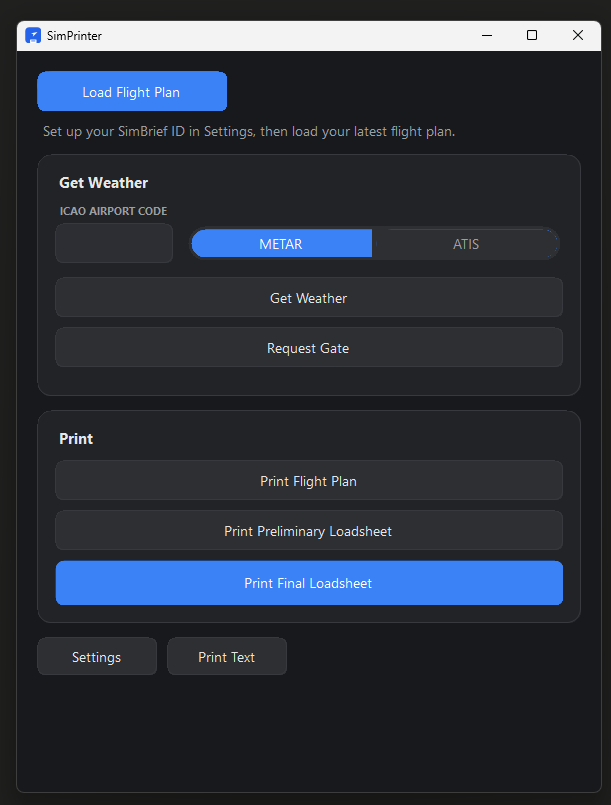
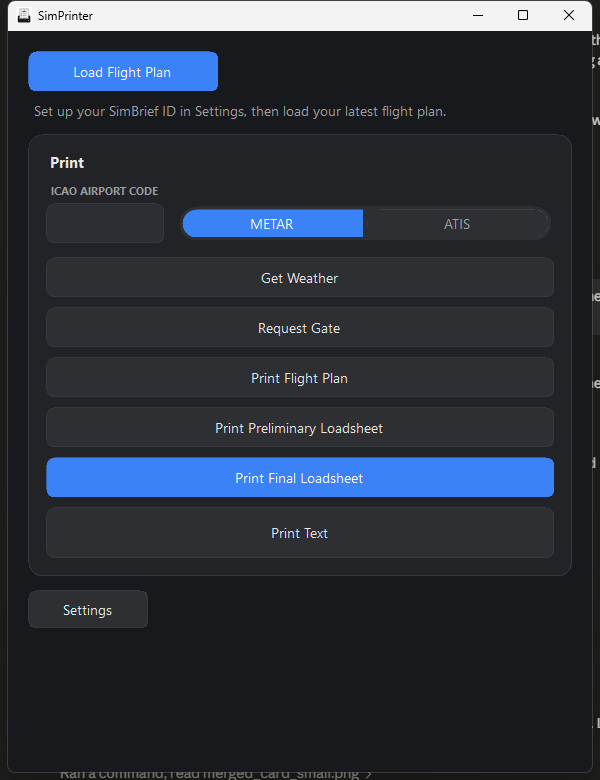
Merge weather/gate lookup into the Print card
Get Weather and Request Gate were split out into their own card, but
they're really just two more "print something" actions like the rest -
folded them into the same Print card instead of splitting the screen
across two titles. Print Text moved up into the card too instead of
sitting in the footer. Updated screenshot to match.

diff --git a/src/SimPrinter/MainForm.cs b/src/SimPrinter/MainForm.cs
@@ -119,34 +119,29 @@ namespace SimPrinter
                 AutoSize = true,
                 AutoSizeMode = AutoSizeMode.GrowAndShrink,
                 ColumnCount = 1,
-                RowCount = 4,
+                RowCount = 3,
                 BackColor = UiStyle.BackgroundColor
             };
             root.RowStyles.Add(new RowStyle(SizeType.AutoSize));
-            root.RowStyles.Add(new RowStyle(SizeType.Absolute, 270));
             root.RowStyles.Add(new RowStyle(SizeType.AutoSize));
             root.RowStyles.Add(new RowStyle(SizeType.AutoSize));
 
             root.Controls.Add(BuildTopPanel(), 0, 0);
 
-            var cardWeather = UiStyle.CreateCard("Get Weather", out Panel weatherContent);
-            cardWeather.Margin = new Padding(0, 14, 0, 14);
-            BuildWeatherContent(weatherContent);
-            root.Controls.Add(cardWeather, 0, 1);
-
             _cardActions = UiStyle.CreateCard("Print", out _actionsContent);
             // CreateCard defaults to Dock=Fill, which is ambiguous when placed in an AutoSize
             // row (WinForms can't ask "what's your preferred size" of a Fill-docked control).
             // An explicit Height + Dock=Top sidesteps that - matches the card's real content:
-            // padding(36) + header(~37) + 3 buttons at 40px with 10px gaps between them.
+            // padding(36) + header(~37) + ICAO label(~25) + input row(54) + 6 buttons at 40px
+            // with 10px gaps between them (last one has no trailing margin).
             _cardActions.Dock = DockStyle.Top;
-            _cardActions.Height = 213;
-            _cardActions.Margin = new Padding(0, 0, 0, 14);
-            _actionsContent.Enabled = false;
+            _cardActions.Height = 442;
+            _cardActions.Margin = new Padding(0, 14, 0, 14);
             BuildActionsContent(_actionsContent);
-            root.Controls.Add(_cardActions, 0, 2);
+            SetFlightPlanActionsEnabled(false);
+            root.Controls.Add(_cardActions, 0, 1);
 
-            root.Controls.Add(BuildFooter(), 0, 3);
+            root.Controls.Add(BuildFooter(), 0, 2);
 
             var scrollHost = new Panel
             {
@@ -194,17 +189,25 @@ namespace SimPrinter
             return panel;
         }
 
-        private void BuildWeatherContent(Panel content)
+        private void BuildActionsContent(Panel content)
         {
+            // Everything that ends up on paper lives in one "Print" card: the ICAO/weather
+            // lookup (Get Weather, Request Gate) and the SimBrief-plan prints are all "print
+            // something" actions from the user's point of view, so they're grouped together
+            // rather than split across a separate "Get Weather" card.
             var layout = new TableLayoutPanel
             {
                 Dock = DockStyle.Fill,
                 ColumnCount = 1,
-                RowCount = 4,
+                RowCount = 8,
                 Margin = new Padding(0)
             };
             layout.RowStyles.Add(new RowStyle(SizeType.AutoSize));
             layout.RowStyles.Add(new RowStyle(SizeType.Absolute, 54));
+            layout.RowStyles.Add(new RowStyle(SizeType.AutoSize));
+            layout.RowStyles.Add(new RowStyle(SizeType.AutoSize));
+            layout.RowStyles.Add(new RowStyle(SizeType.AutoSize));
+            layout.RowStyles.Add(new RowStyle(SizeType.AutoSize));
             layout.RowStyles.Add(new RowStyle(SizeType.AutoSize));
             layout.RowStyles.Add(new RowStyle(SizeType.AutoSize));
 
@@ -255,30 +258,9 @@ namespace SimPrinter
             _btnRequestGate.Text = "Request Gate";
             _btnRequestGate.Dock = DockStyle.Top;
             _btnRequestGate.Height = 40;
-            _btnRequestGate.Margin = new Padding(0);
+            _btnRequestGate.Margin = new Padding(0, 0, 0, 10);
             _btnRequestGate.Click += BtnRequestGate_Click;
             UiStyle.StyleSecondaryButton(_btnRequestGate);
-
-            layout.Controls.Add(lblIcao, 0, 0);
-            layout.Controls.Add(inputRow, 0, 1);
-            layout.Controls.Add(_btnGetWeather, 0, 2);
-            layout.Controls.Add(_btnRequestGate, 0, 3);
-
-            content.Controls.Add(layout);
-        }
-
-        private void BuildActionsContent(Panel content)
-        {
-            var layout = new TableLayoutPanel
-            {
-                Dock = DockStyle.Fill,
-                ColumnCount = 1,
-                RowCount = 3,
-                Margin = new Padding(0)
-            };
-            layout.RowStyles.Add(new RowStyle(SizeType.AutoSize));
-            layout.RowStyles.Add(new RowStyle(SizeType.AutoSize));
-            layout.RowStyles.Add(new RowStyle(SizeType.AutoSize));
 
             _btnPrintFlightPlan.Text = "Print Flight Plan";
             _btnPrintFlightPlan.Dock = DockStyle.Fill;
@@ -297,15 +279,38 @@ namespace SimPrinter
             _btnPrintFinal.Text = "Print Final Loadsheet";
             _btnPrintFinal.Dock = DockStyle.Fill;
             _btnPrintFinal.Height = 40;
-            _btnPrintFinal.Margin = new Padding(0);
+            _btnPrintFinal.Margin = new Padding(0, 0, 0, 10);
             _btnPrintFinal.Click += BtnPrintFinal_Click;
             UiStyle.StylePrimaryButton(_btnPrintFinal);
 
-            layout.Controls.Add(_btnPrintFlightPlan, 0, 0);
-            layout.Controls.Add(_btnPrintPrelim, 0, 1);
-            layout.Controls.Add(_btnPrintFinal, 0, 2);
+            // Unlike the three buttons above, Print Text doesn't need a flight plan loaded -
+            // see SetFlightPlanActionsEnabled, which enables/disables those three individually
+            // rather than disabling _actionsContent as a whole (Enabled cascades to every
+            // descendant regardless of nesting, which would take Print Text down with them).
+            _btnPrintText.Text = "Print Text";
+            _btnPrintText.Dock = DockStyle.Fill;
+            _btnPrintText.Height = 40;
+            _btnPrintText.Margin = new Padding(0);
+            _btnPrintText.Click += BtnPrintText_Click;
+            UiStyle.StyleSecondaryButton(_btnPrintText);
+
+            layout.Controls.Add(lblIcao, 0, 0);
+            layout.Controls.Add(inputRow, 0, 1);
+            layout.Controls.Add(_btnGetWeather, 0, 2);
+            layout.Controls.Add(_btnRequestGate, 0, 3);
+            layout.Controls.Add(_btnPrintFlightPlan, 0, 4);
+            layout.Controls.Add(_btnPrintPrelim, 0, 5);
+            layout.Controls.Add(_btnPrintFinal, 0, 6);
+            layout.Controls.Add(_btnPrintText, 0, 7);
 
             content.Controls.Add(layout);
+        }
+
+        private void SetFlightPlanActionsEnabled(bool enabled)
+        {
+            _btnPrintFlightPlan.Enabled = enabled;
+            _btnPrintPrelim.Enabled = enabled;
+            _btnPrintFinal.Enabled = enabled;
         }
 
         private Control BuildFooter()
@@ -313,12 +318,11 @@ namespace SimPrinter
             var footer = new TableLayoutPanel
             {
                 Dock = DockStyle.Top,
-                ColumnCount = 3,
+                ColumnCount = 2,
                 RowCount = 1,
                 AutoSize = true,
                 Margin = new Padding(0)
             };
-            footer.ColumnStyles.Add(new ColumnStyle(SizeType.AutoSize));
             footer.ColumnStyles.Add(new ColumnStyle(SizeType.AutoSize));
             footer.ColumnStyles.Add(new ColumnStyle(SizeType.Percent, 100));
 
@@ -326,17 +330,9 @@ namespace SimPrinter
             _btnSettings.AutoSize = false;
             _btnSettings.Width = 120;
             _btnSettings.Height = 38;
-            _btnSettings.Margin = new Padding(0, 0, 10, 0);
+            _btnSettings.Margin = new Padding(0);
             _btnSettings.Click += BtnSettings_Click;
             UiStyle.StyleSecondaryButton(_btnSettings, UiStyle.BackgroundColor);
-
-            _btnPrintText.Text = "Print Text";
-            _btnPrintText.AutoSize = false;
-            _btnPrintText.Width = 120;
-            _btnPrintText.Height = 38;
-            _btnPrintText.Margin = new Padding(0);
-            _btnPrintText.Click += BtnPrintText_Click;
-            UiStyle.StyleSecondaryButton(_btnPrintText, UiStyle.BackgroundColor);
 
             _lblOffBlock.Dock = DockStyle.Fill;
             _lblOffBlock.TextAlign = ContentAlignment.MiddleRight;
@@ -344,8 +340,7 @@ namespace SimPrinter
             _lblOffBlock.Margin = new Padding(0);
 
             footer.Controls.Add(_btnSettings, 0, 0);
-            footer.Controls.Add(_btnPrintText, 1, 0);
-            footer.Controls.Add(_lblOffBlock, 2, 0);
+            footer.Controls.Add(_lblOffBlock, 1, 0);
 
             return footer;
         }
@@ -380,7 +375,7 @@ namespace SimPrinter
             }
 
             _btnLoad.Enabled = false;
-            _actionsContent.Enabled = false;
+            SetFlightPlanActionsEnabled(false);
             _lblStatus.ForeColor = UiStyle.MutedTextColor;
             _lblStatus.Text = "Loading latest flight plan from SimBrief...";
 
@@ -391,7 +386,7 @@ namespace SimPrinter
                 _finalLoadsheetValues = _preferences.RandomizeFinalLoadsheet
                     ? LoadsheetGenerator.BuildFinalValues(plan, new Random())
                     : LoadsheetGenerator.BuildPreliminaryValues(plan);
-                _actionsContent.Enabled = true;
+                SetFlightPlanActionsEnabled(true);
                 _lblStatus.ForeColor = UiStyle.SuccessColor;
                 _lblStatus.Text = $"Loaded: {plan.OriginIcao} -> {plan.DestIcao} ({plan.Callsign})";
                 RefreshOffBlockLabel();
